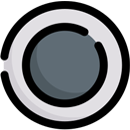
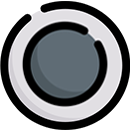
feat: Preparations made to implement the new radio-buttons design

diff --git a/BirDayBer.py b/BirDayBer.py
@@ -528,13 +528,22 @@ class Interface_structure(Birdayber_setUp):
 
         self.gender_selector = tk.IntVar()
 
+        self.test1 = tk.PhotoImage(
+            file="bin/system_content/visual_content/radio_button_0.png")
+        self.test2 = tk.PhotoImage(
+            file="bin/system_content/visual_content/radio_button_1.png")
+
         self.male_button = tk.Radiobutton(
             self.people_adder, variable=self.gender_selector, value=1,
-            bg="#66838e", activebackground="#66838e")
+            bg="#66838e", activebackground="#66838e", image=self.test1,
+            selectimage=self.test2, indicator=False, bd=0,
+            selectcolor="#66838e")
 
         self.female_button = tk.Radiobutton(
             self.people_adder, variable=self.gender_selector, value=2,
-            bg="#66838e", activebackground="#66838e")
+            bg="#66838e", activebackground="#66838e", image=self.test1,
+            selectimage=self.test2, indicator=False, bd=0,
+            selectcolor="#66838e")
 
         padx = self.screen_width * 0.01375 + 0.0225
         pady = self.screen_height * 0.019
